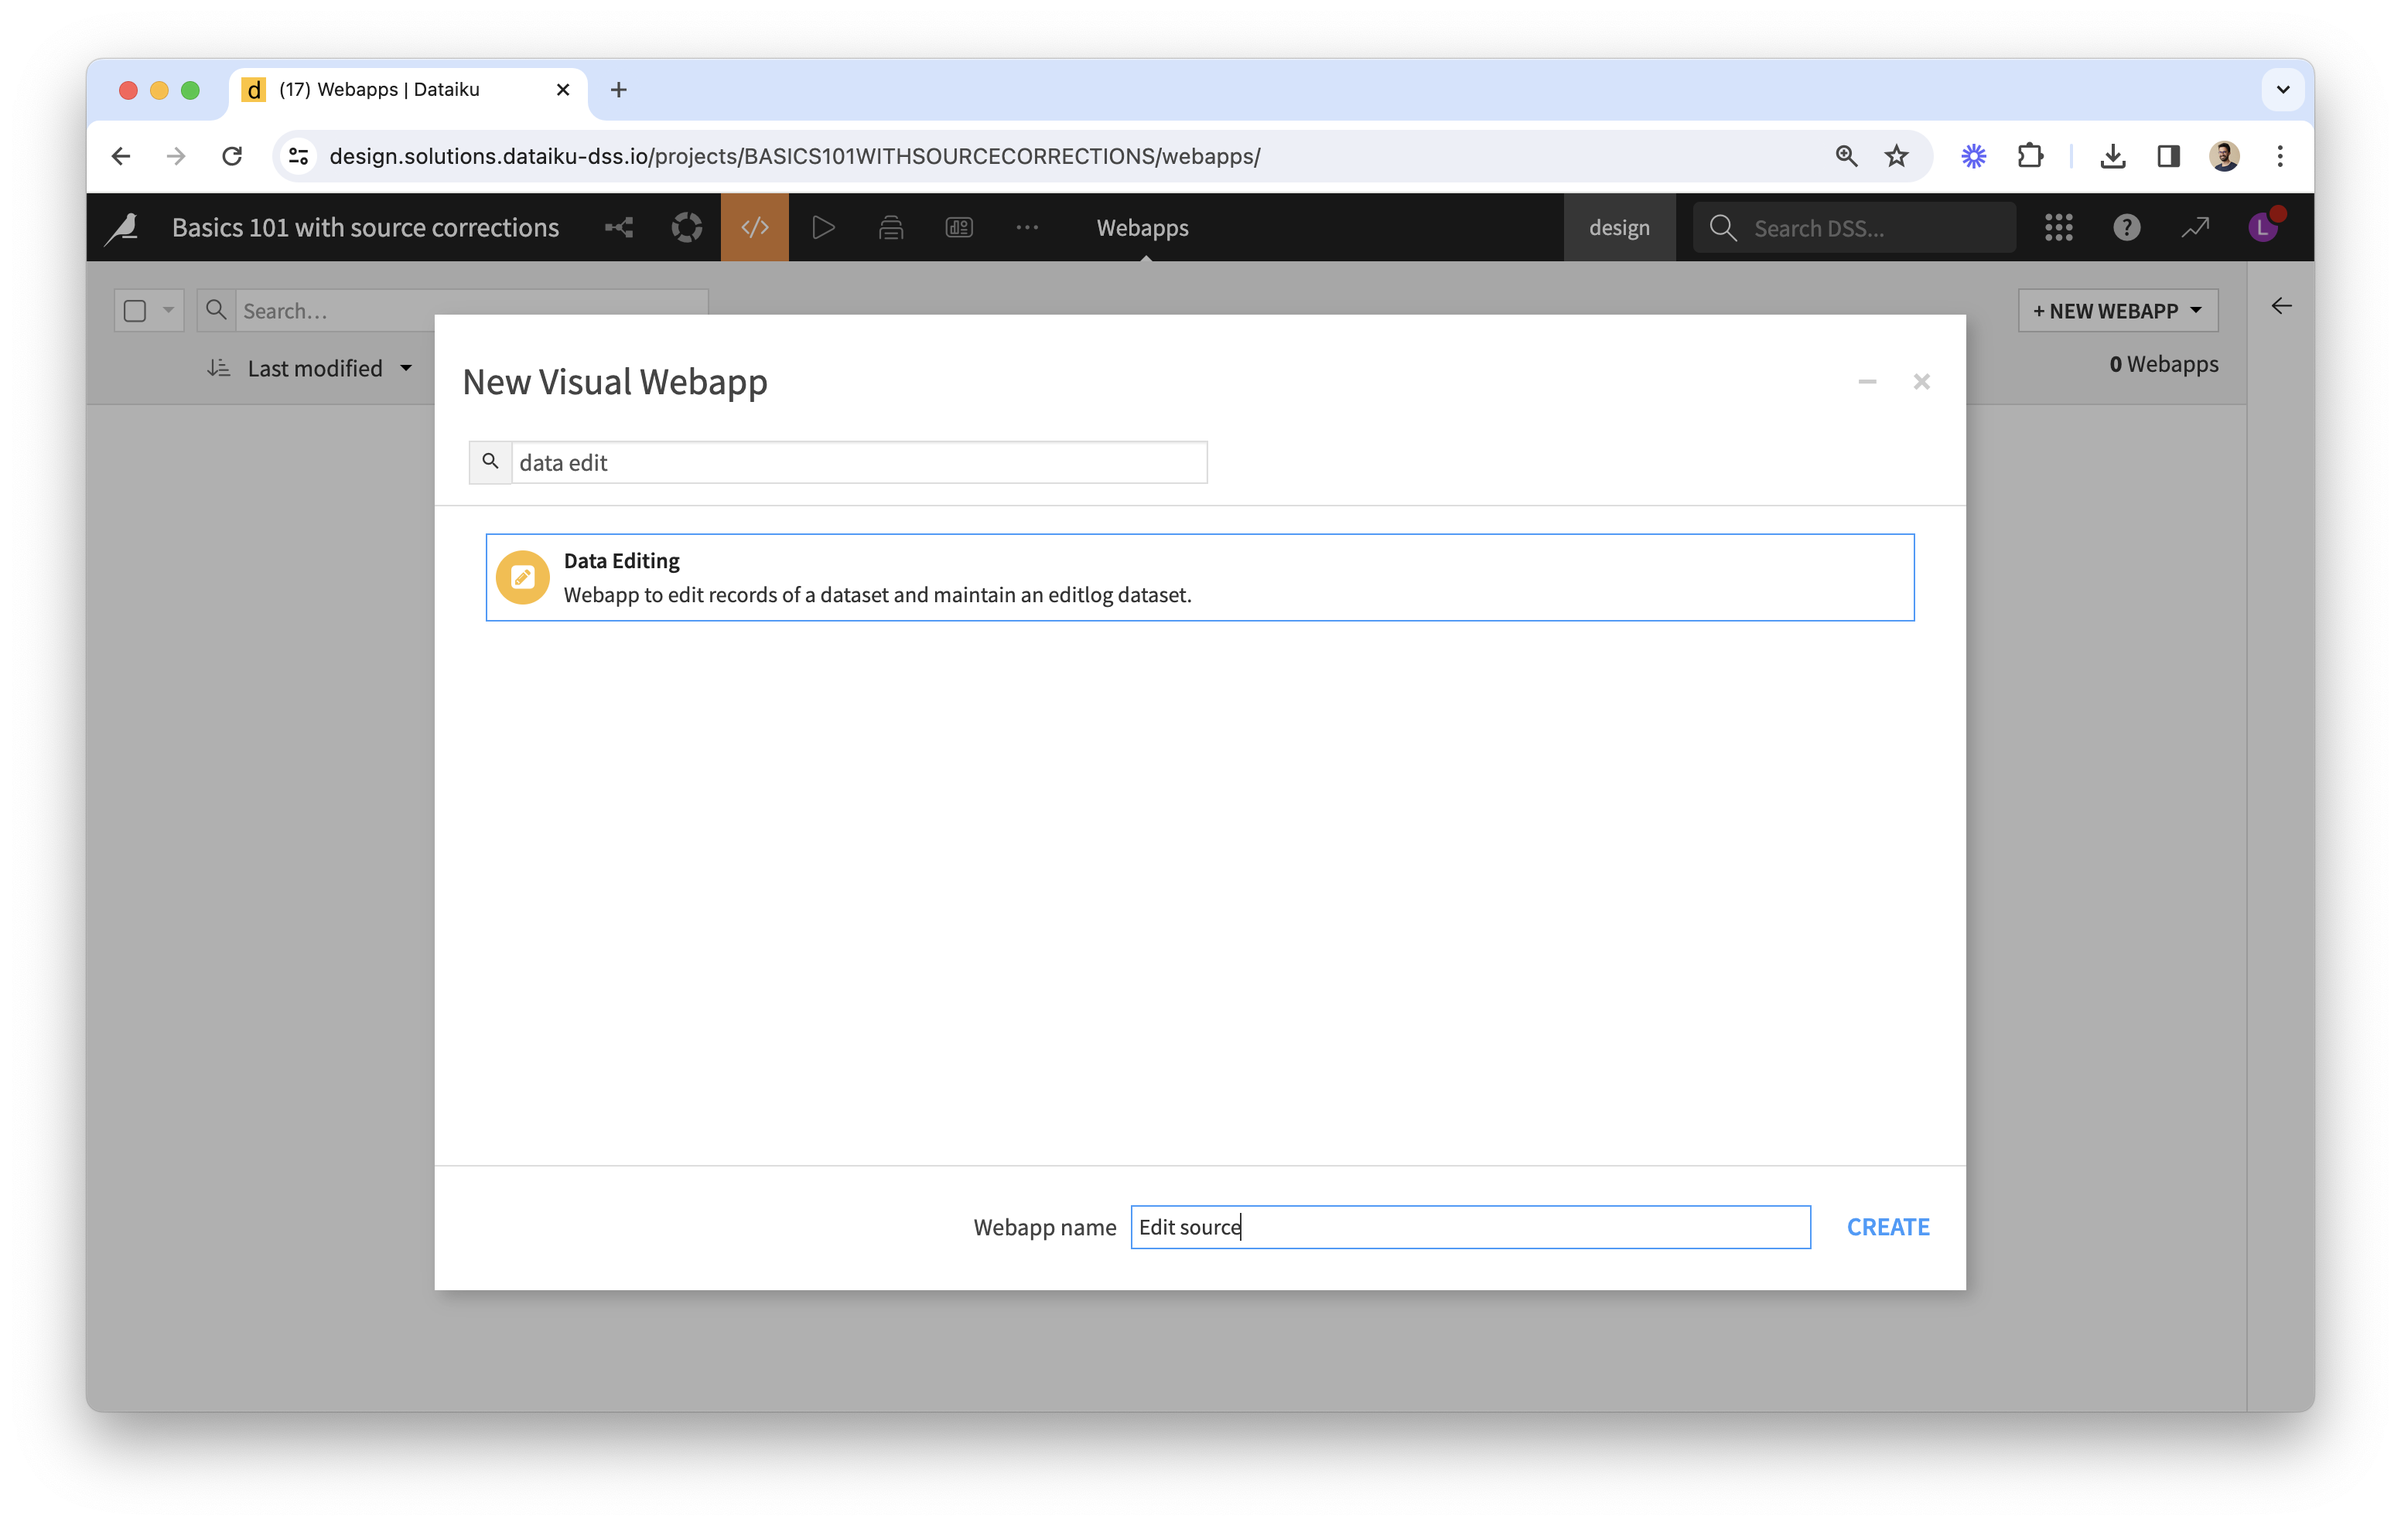
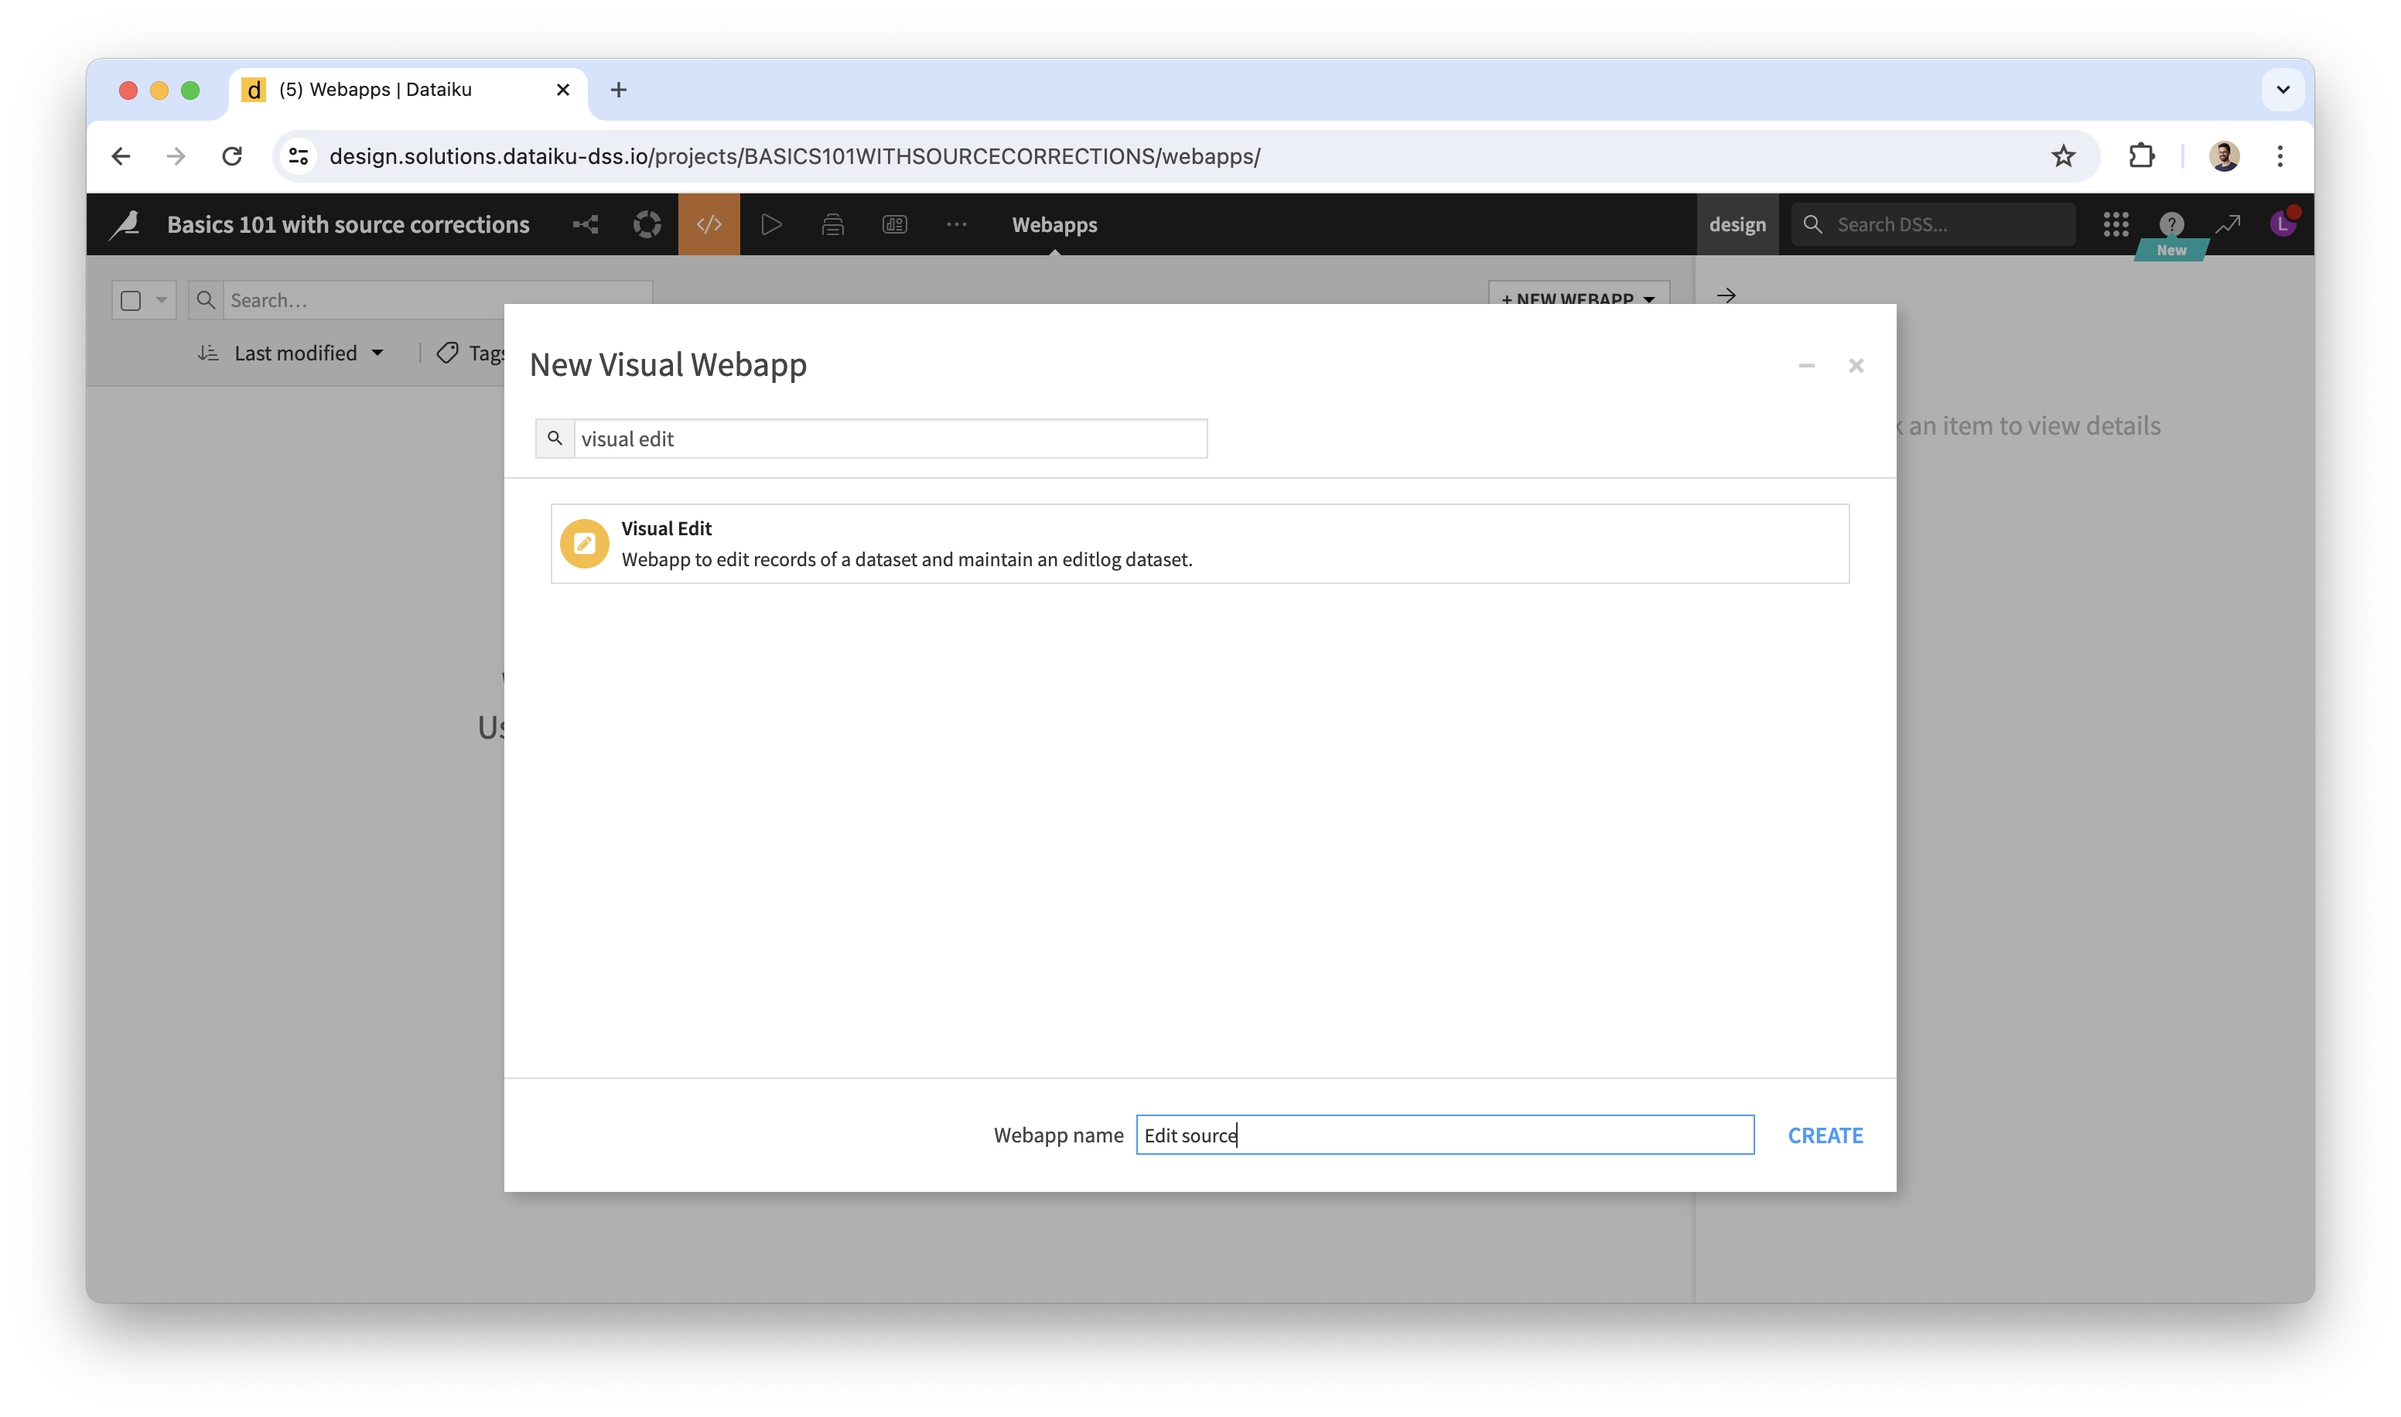
Documentation improvements

Changed region(s): [[0.0312, 0.0311, 0.9688, 0.8712], [0.4062, 0.7778, 0.5312, 0.809]]

diff --git a/docs/install-plugin.md b/docs/install-plugin.md
@@ -9,19 +9,19 @@
 
 ### Dataiku self-managed
 
-### Requirements
+#### Requirements
 
 * Dataiku 9 or more recent
-* Ability to install plugins on your Dataiku instance and to create an associated code env based on Python 3.9
+* Ability to install plugins on your Dataiku instance and to create an associated code env based on Python 3.8 or 3.9.
 
-### Instructions
+#### Instructions
 
 * From the Plugins page of your Dataiku instance, click on the "Add Plugin" button in the top right corner and choose "Fetch from Git repository":
   * Repository URL: `git@github.com:dataiku/dss-visual-edit.git`
   * Development mode: leave unticked
   * Checkout: choose `master` under "Branch", to install the latest version of the plugin; alternatively, choose a version number under "Tag"
   * Path in repository: `dss-plugin-visual-edit`
-* Create the code environment for this plugin. Select the types of containers you plan to use as backend for data editing webapps or for running recipes provided by the plugin (the easiest is to choose All).
+* Create the code environment for this plugin. Select the version of Python you want to use and the types of containers you plan to use as backend for Visual Edit webapps or for running recipes provided by the plugin (the easiest is to choose All).
 * The plugin is installed! ![](plugin_installed.png) We'll see how to use each of its components in the next guide.
 
 ## How to update the plugin

diff --git a/docs/index.md b/docs/index.md
@@ -2,20 +2,20 @@
 
 ## Build apps to validate and edit data within pipelines
 
-<iframe src="https://www.loom.com/embed/7b79e45e755544f8baf1ff3ed1bf60ee" frameborder="0" webkitallowfullscreen="" mozallowfullscreen="" allowfullscreen="" style="height: 400px; width: 600px"></iframe>
+![](demo_unmatched_entities.gif)
 
 [Book a demo!](https://calendar.google.com/calendar/u/0/appointments/schedules/AcZssZ1cgQ-IQ2k2eJMm6mUrZxabQgtPSSwaZ9TgNcHcnaUDvrqfweAkf-B7xzZbTSNyYeSRc2smgLbp){: .btn}
 
 Use Cases: enable domain experts to...
 
-* Make tactical corrections on source data, to ensure correctness of an analytics project.
-* Review the output of rules or AI used for
+* Validate the output of rules or AI used for
   * Mass corrections/enrichment of source data: **entity resolution, deduplication, categorization**, etc.
   * Operational processes: **log decisions on alerts, validate suggestions of amounts to pay or orders to place**, etc.
+* Make tactical corrections on source data, to ensure correctness of an analytics project.
 
 Features:
 
-* Powerful data table with rich editing experience and a special Review checkbox.
+* Powerful data table with rich editing experience and a special validation column.
 * Easy webapp setup (no-code and low-code options) and integration of edits in your pipeline.
 * Ability to leverage human feedback for continuous AI improvement.
 * Audit trail of all edits.

diff --git a/dss-plugin-visual-edit/README.md b/dss-plugin-visual-edit/README.md
@@ -1,6 +1,6 @@
 # DSS Plugin: Visual Edit
 
-Visual Edit provides components to create data editing interfaces, packaged in a Dataiku plugin.
+Visual Edit provides components to create data validation and editing interfaces, packaged in a Dataiku plugin.
 
 This document serves as developer documentation. As a preliminary step, we recommend reading the [user documentation](https://dataiku.github.io/dss-visual-edit/) for data experts and for developers.
 
